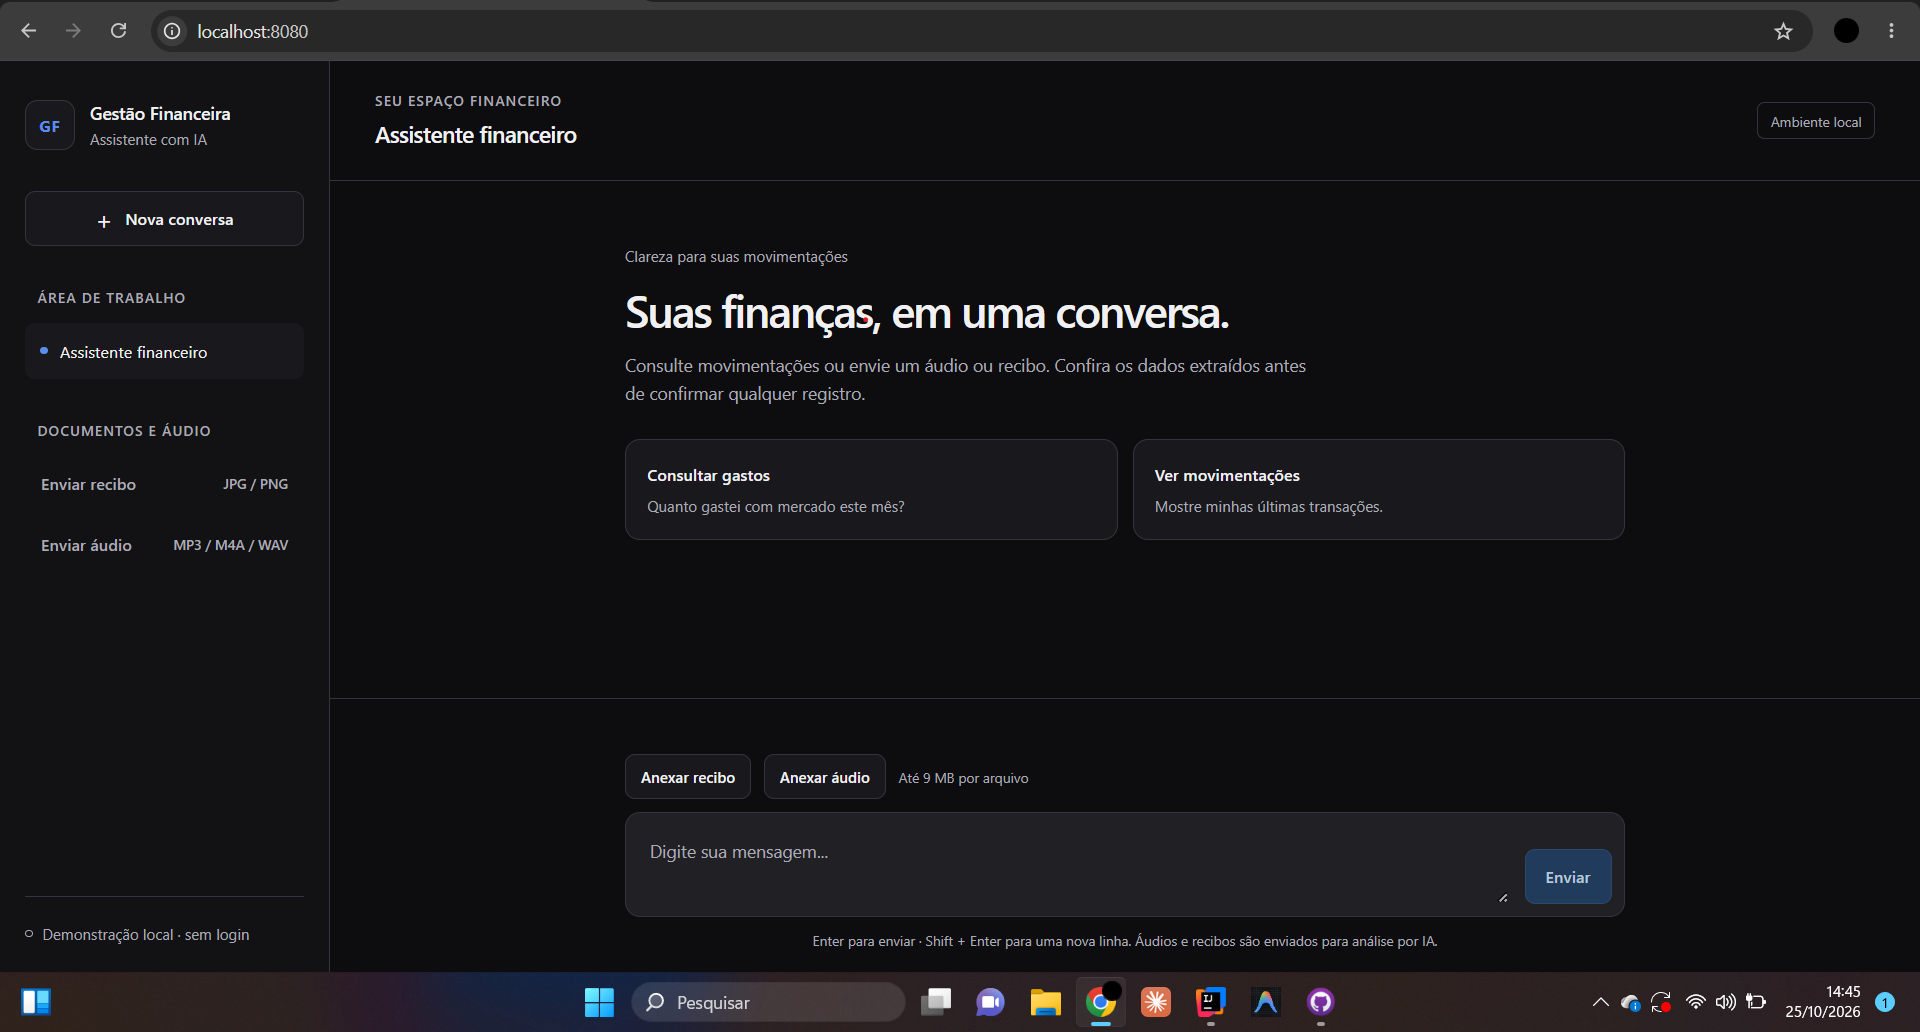
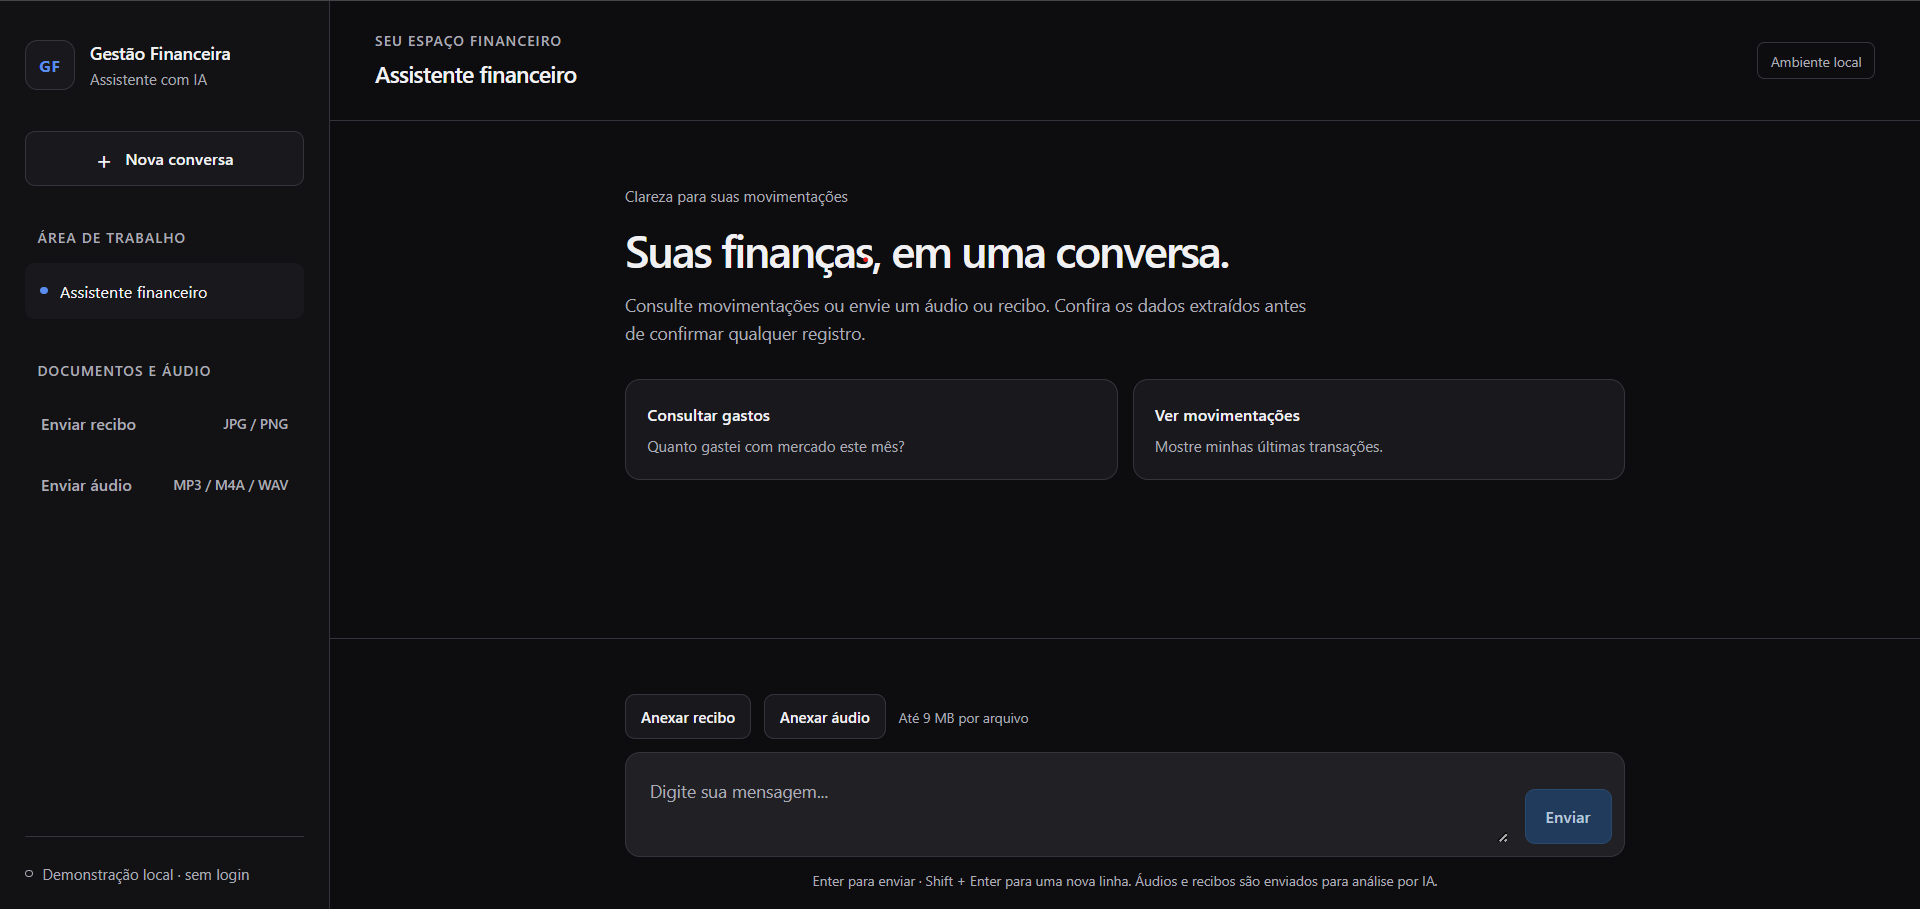
Ajuste na imagem

diff --git a/README.md b/README.md
@@ -58,11 +58,7 @@ Os dados são armazenados em MySQL 8.4. O código está organizado em camadas de
 
 <div align="center">
 
-<img
-src="docs/images/interface.png"
-alt="Interface do Gestão Financeira IA"
-width="1100"
->
+<img src="docs/images/interface.png" alt="Interface do Gestão Financeira IA" width="1100">
 
 </div>
 
